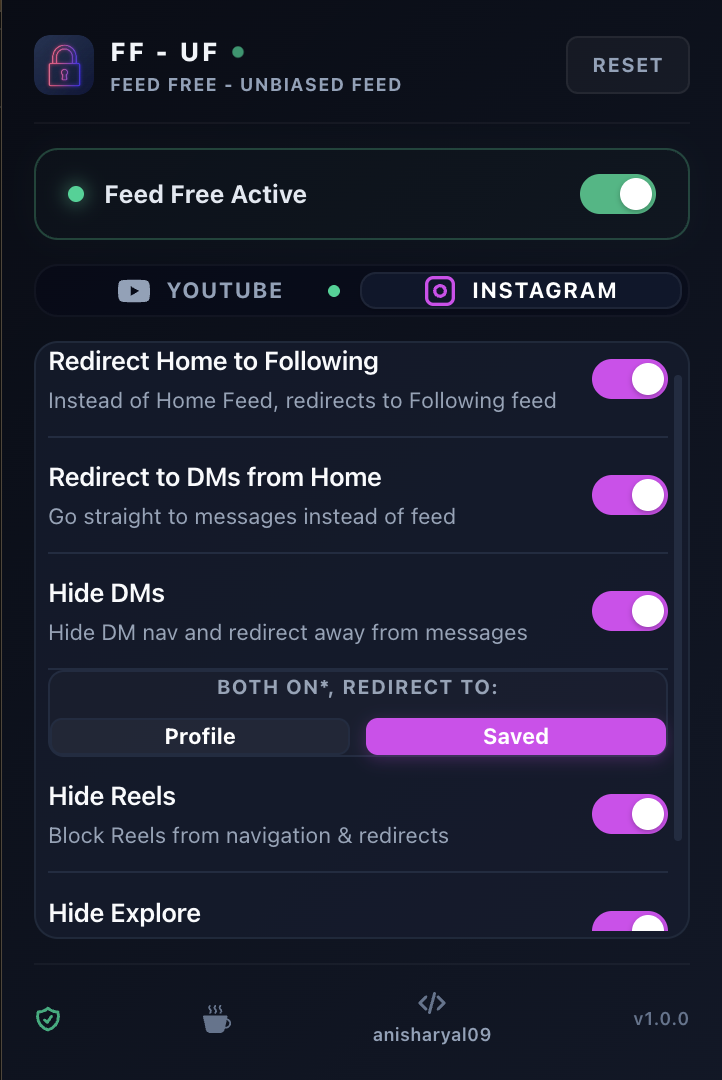
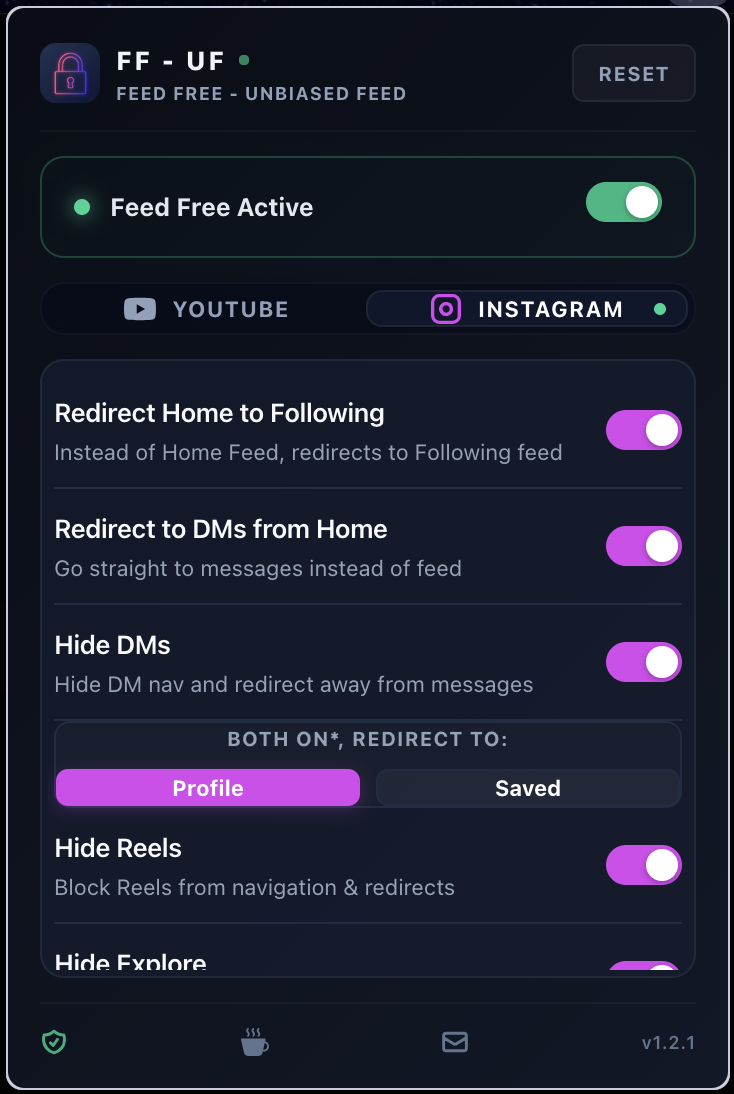
docs: update assets & README / changelog

diff --git a/README.md b/README.md
@@ -8,7 +8,7 @@ Take control of your social media feeds. Block algorithmic recommendations, Shor
   <a href="https://chromewebstore.google.com/detail/feed-free-unbiased-feed-f/fmmfdjmmjmkedafmhhdmoafbioakeefp">
     <img src="https://img.shields.io/badge/CHROME%20WEB%20STORE-v1.1.0-blue?style=flat-square&logo=googlechrome&logoColor=white" alt="Chrome Web Store" />
   </a>
-  
+  <br>
   <a href="https://addons.mozilla.org/en-US/firefox/addon/feed-free-uf/">
     <img src="https://img.shields.io/badge/FIREFOX%20ADD--ON-Under%20Review%20(v1.1.0)-orange?style=flat-square&logo=firefoxbrowser&logoColor=white" alt="Firefox Add-on" />
   </a>
@@ -18,7 +18,7 @@ Take control of your social media feeds. Block algorithmic recommendations, Shor
   <img src="assets/youtube.png" alt="YouTube Feed Free" width="49%" />
   <img src="assets/instagram.png" alt="Instagram Feed Free" width="49%" />
   <br>
-  <em>Screenshots of Popup UI with Youtube and Instagram Controls (Left-to-Right).</em>
+  <em>Screenshots of Popup UI with Youtube and Instagram Controls (Left | Right).</em>
 </p>
 
 ---

diff --git a/CHANGELOG.md b/CHANGELOG.md
@@ -16,6 +16,7 @@ and this project adheres to [Semantic Versioning](https://semver.org/spec/v2.0.0
 
 ### Changed
 - **Popup Footer**: Removed the personal website shortcut link from the popup interface.
+- **Documentation**: Updated the project screenshots (`assets/youtube.png` and `assets/instagram.png`).
 
 ### Fixed
 - **YouTube End-Screens Toggle**: Fixed a bug where YouTube end screen suggestions and overlay elements remained hidden after toggling the option off. Added style clearing to reset display overrides.